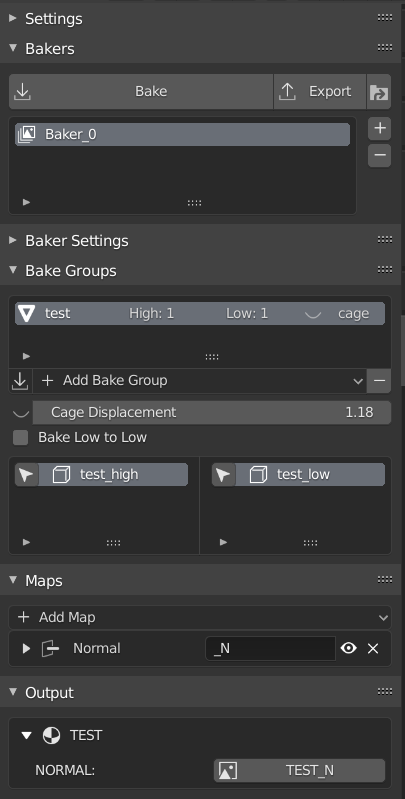
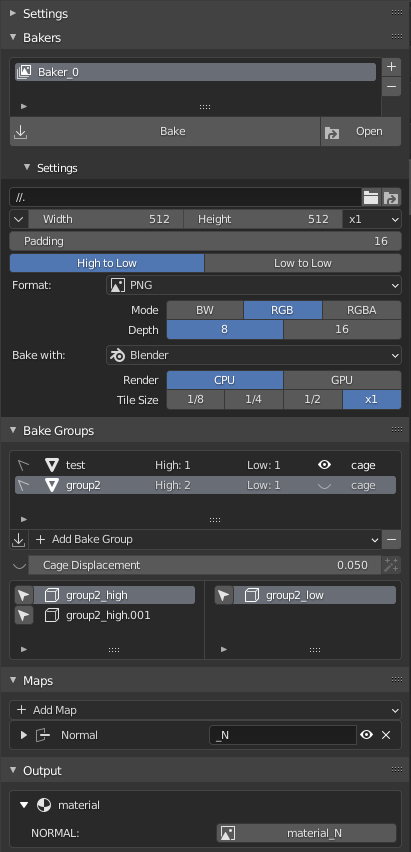
ui improvements and fix for images

diff --git a/devices/blender.py b/devices/blender.py
@@ -116,24 +116,32 @@ class EZB_Device_Blender(bpy.types.PropertyGroup, EZB_Device):
                             print('FINISHED BAKE')
         
         
-        self.clear_temp_materials()
-        baker.clear_outputs()
+            self.clear_temp_materials()
+            baker.clear_outputs()
 
-        for mat in baker.materials:
-            for img in mat.images:
-                img.image.scale(baker.width, baker.height)
-                img.image.pack()
-                img.image.file_format = baker.image_format
-                path_full = os.path.normpath(os.path.join(bpy.path.abspath(baker.path), img.image.name) + file_formats_enum[baker.image_format])
-                directory = os.path.dirname(path_full)
-                try:
-                    pathlib.Path(directory).mkdir(parents=True, exist_ok=True)
-                    img.image.filepath = path_full
-                    img.image.save()
-                    img.image.source = 'FILE'
-                    img.image.unpack(method='REMOVE')
-                    
-                except OSError:
-                    print('The image could not be saved to the path')
-                    pass
+            bpy.context.scene.view_settings.view_transform = 'Standard'
+
+            bpy.context.scene.render.image_settings.file_format = baker.image_format
+            bpy.context.scene.render.image_settings.color_mode = baker.color_mode
+            bpy.context.scene.render.image_settings.color_depth = baker.color_depth
+            bpy.context.scene.render.image_settings.compression = 0
+            bpy.context.scene.render.image_settings.tiff_codec = 'DEFLATE'
+
+            for mat in baker.materials:
+                for img in mat.images:
+                    img.image.scale(baker.width, baker.height)
+                    img.image.pack()
+                    img.image.file_format = baker.image_format
+                    path_full = os.path.normpath(os.path.join(bpy.path.abspath(baker.path), img.image.name) + file_formats_enum[baker.image_format])
+                    directory = os.path.dirname(path_full)
+                    try:
+                        pathlib.Path(directory).mkdir(parents=True, exist_ok=True)
+                        img.image.filepath = path_full
+                        img.image.save_render(path_full, scene=bpy.context.scene)
+                        img.image.source = 'FILE'
+                        img.image.unpack(method='REMOVE')
+                        
+                    except OSError:
+                        print('The image could not be saved to the path')
+                        pass
                 

diff --git a/core.py b/core.py
@@ -137,15 +137,15 @@ class EZB_PT_baker_panel(bpy.types.Panel):
 
         bakers = [x for x in ezb_settings.bakers]
 
-
-        row = layout.row(align=False)
+        main_col = layout.column(align=True)
+        row = main_col.row(align=True)
 
         row.template_list("EZB_UL_bakers", "", ezb_settings, "bakers", ezb_settings, "baker_index", rows=2)
-        col=row.column(align=False)
+        col=row.column(align=True)
         col.operator('ezb.new_baker',text='', icon='ADD')
         col.operator('ezb.remove_baker', text='', icon='REMOVE')
 
-        row = layout.row(align=True)
+        row = main_col.split(factor=0.8, align=True)
         #split=row.split(factor=0.75, align=True)
         row.scale_y = 1.5
 
@@ -160,7 +160,7 @@ class EZB_PT_baker_panel(bpy.types.Panel):
             path = baker.path
             row.enabled = bool(baker.path)
         
-        row.operator("wm.path_open", text="", icon=open_folder_icon).filepath = path
+        row.operator("wm.path_open", text="Open", icon=open_folder_icon).filepath = path
 
         if False:
             tooltip = operators.EZB_OT_bake.description(context, bake_op)
@@ -176,11 +176,12 @@ class EZB_PT_baker_panel(bpy.types.Panel):
 
 class EZB_PT_baker_settings_panel(bpy.types.Panel):
     bl_idname = "EZB_PT_baker_settings_panel"
-    bl_label = "Baker Settings"
+    bl_label = "Settings"
     bl_space_type = 'VIEW_3D'
     bl_region_type = 'UI'
     bl_category = "EZ Baker"
     bl_options = {'DEFAULT_CLOSED'}
+    bl_parent_id = "EZB_PT_baker_panel"
 
     def draw(self, context):
         layout = self.layout
@@ -193,7 +194,7 @@ class EZB_PT_baker_settings_panel(bpy.types.Panel):
             return
         baker = bpy.context.scene.EZB_Settings.bakers[bpy.context.scene.EZB_Settings.baker_index]
 
-        col = layout.column(align=True)
+        col = layout.column(align=False)
 
         # Path settings
         row = col.row(align=True)
@@ -216,7 +217,8 @@ class EZB_PT_baker_settings_panel(bpy.types.Panel):
         row = col.row(align=True)
         row.prop(baker, 'padding', text='Padding', expand=True)
         row = col.row(align=True)
-        row.prop(baker, 'use_low_to_low', text='Bake Low to Low')
+        row.prop(baker, 'use_low_to_low', text='High to Low', expand=True, toggle=True, invert_checkbox=True)
+        row.prop(baker, 'use_low_to_low', text='Low to Low', expand=True, toggle=True)
 
         col.prop(baker, 'image_format', text='Format', icon='IMAGE_DATA')
         

diff --git a/operators.py b/operators.py
@@ -448,6 +448,12 @@ class EZB_OT_edit_bake_groups(bpy.types.Operator):
     cage_displacement: bpy.props.FloatProperty(name='Cage Displacement', default=0.05, step=0.1, precision=3, update=update_cage)
     preview_cage: bpy.props.BoolProperty(update=update_cage_visible, default=True)
 
+    @classmethod
+    def poll(cls, context):
+        if not context.selected_objects:
+            return False
+        return True
+
     def draw(self, context):
         layout = self.layout
         row = layout.row(align=True)

diff --git a/baker.py b/baker.py
@@ -237,7 +237,6 @@ class EZB_Baker(bpy.types.PropertyGroup):
             bpy.context.scene.render.image_settings.color_depth = self.color_depth
             bpy.context.scene.render.image_settings.compression = 0
             bpy.context.scene.render.image_settings.tiff_codec = 'DEFLATE'
-
             
             for x in textures:
                 path_full = os.path.join(bpy.path.abspath(self.path), x.name) + file_formats_enum[self.image_format]

diff --git a/CHANGELOG.md b/CHANGELOG.md
@@ -4,6 +4,14 @@ All notable changes to this project will be documented in this file.
 The format is based on [Keep a Changelog](https://keepachangelog.com/en/1.0.0/),
 and this project adheres to [Semantic Versioning](https://semver.org/spec/v2.0.0.html).
 
+## [0.1.2](https://gitlab.com/AquaticNightmare/ez_baker/-/releases/0_1_2)
+### Changed
+- UI improvements
+
+### Fixed
+- Images baked with blender are now correctly saved with selected depth and channels
+
+
 ## [0.1.1](https://gitlab.com/AquaticNightmare/ez_baker/-/releases/0_1_1)
 ### Added
 - new operator to modify cage options for multiple bake groups
